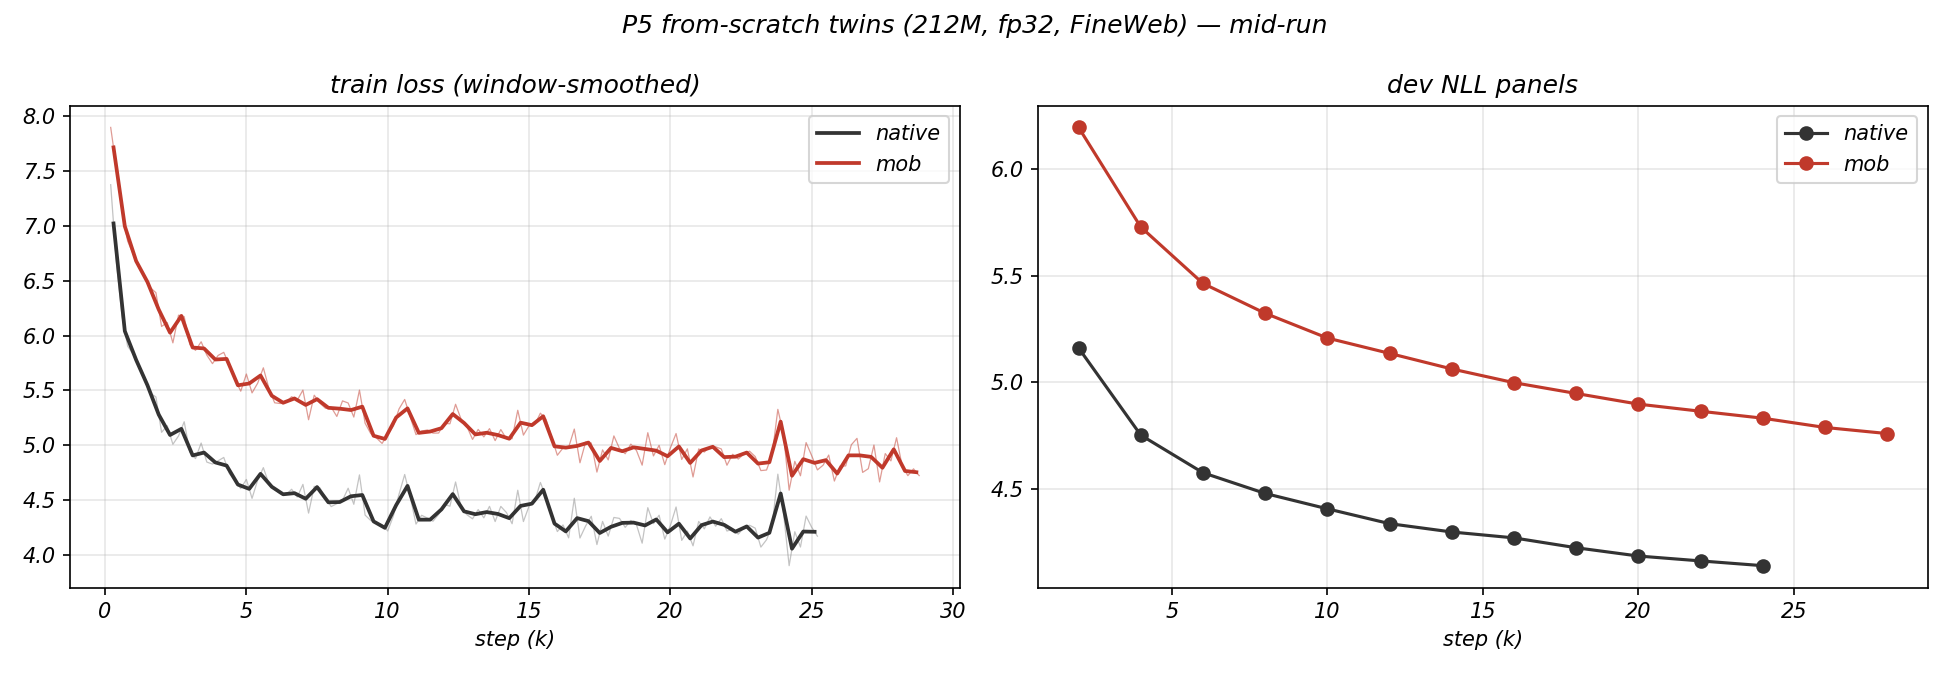
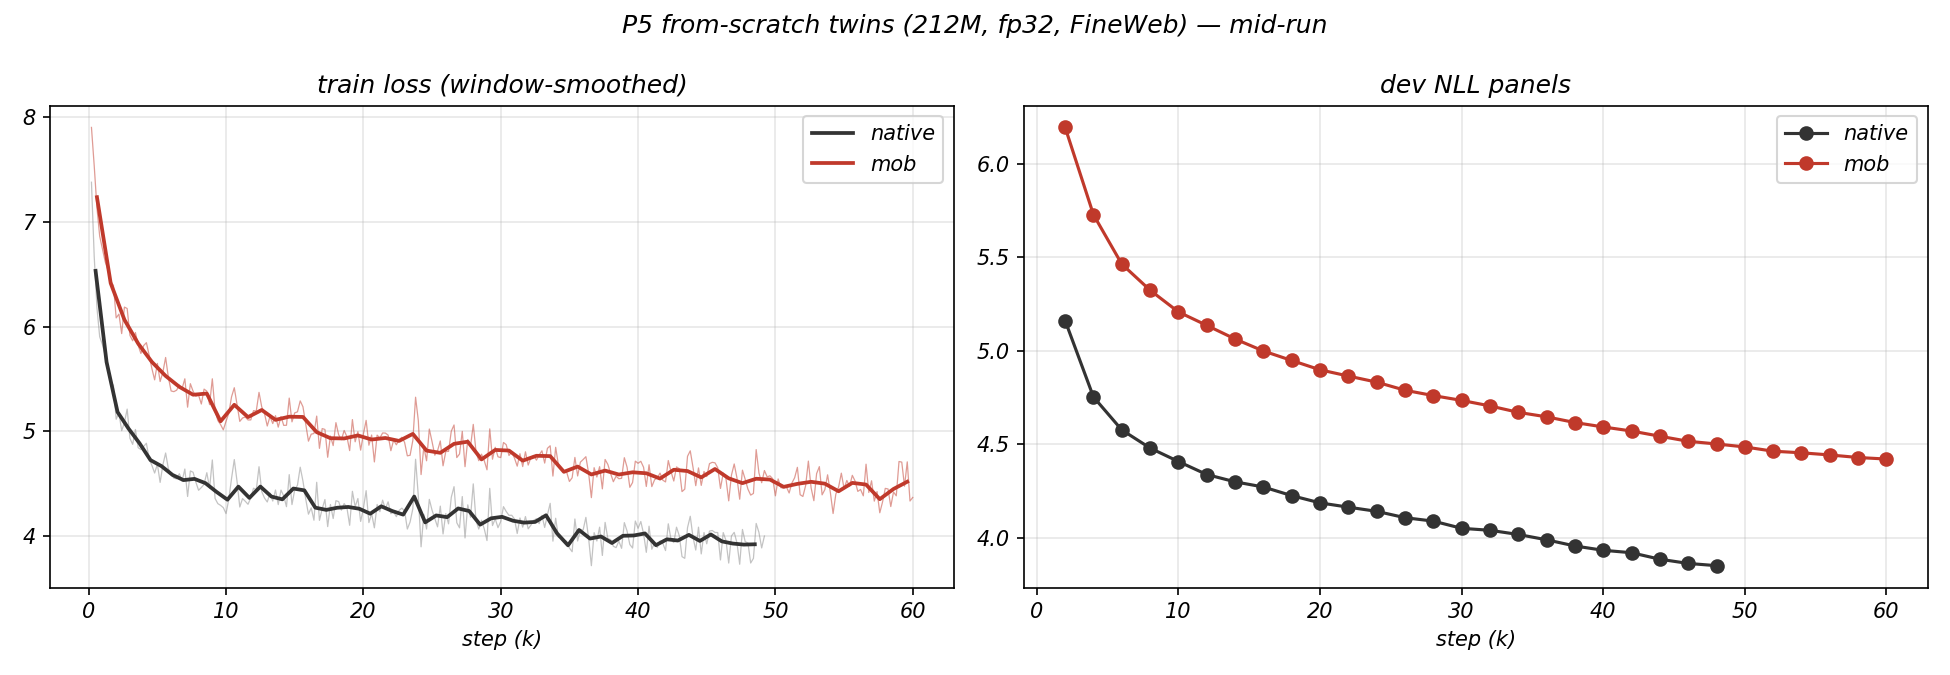
mob twin complete: healthy throughout, 1.93x at matched step 36k (inside viability line), generations = undertrained-LM form; three-line evidence convergence

diff --git a/AGENTS.md b/AGENTS.md
@@ -51,7 +51,7 @@ Core design (agreed with the user; decisions logged in `docs/03-experiment-plan.
 - **Continuation run COMPLETE (2026-09-03, job 522720, 5h12m):** low-LR polish (peak 2e-4 × 50k) on the WSD head — final acceptance: **normalized PPL 2.00× (26.20/13.09), agree 0.774** (vs WSD 2.05×/0.770); panel still creeping at the end (0.778, smaller-subset metric). **Head capacity ceiling under this recipe ≈ 0.77-0.78 agree / ~2.0× PPL** — further gains need a different axis (data/capacity/joint optimization). Artifacts pulled: `runs/head_final_cont.pt`, `runs/train_log_cont.jsonl`, `runs/p3_cont_metrics.json`.
 - **P4 JOINT fine-tune v2 RUNNING (2026-09-03, job 523813 on gpu_v100s):** user course-correction (NLL jitter too aggressive) — warmup 500→2000, LR down ~0.7 order (backbone 5e-6 / head 2e-5), save-every 5000, outdir `runs/p4_joint_lowlr/` (v1 job 523189 cancelled at ~7.4h, its log kept for comparison). Unchanged design: LoRA r32 last-8 layers + final norm (11.27M trainable) + WSD final head, PURE MoB-NLL loss, 20k steps batch 8×512, panel every 2k (MoB dev NLL = acceptance vs pure-native baseline; native drift = diagnostic; BabyLM OOD = forgetting canary). `scripts/p4_joint_train.py` + `slurm_p4_joint.sbatch`. v1 mid-run note: at step 2000 MoB dev NLL 3.271 was already below the frozen baseline 3.289. Continuation job 522720 kept as the fallback baseline.
 - **P4 polish COMPLETE (2026-09-04, job 524279):** decay-tail from v2's 10k checkpoint bought only -0.006 nats (3.2393→3.2337); v2's constant LR crept to 3.2311 @ 18k — both converge to ~3.23. Initial read was "capacity ceiling", but the user REJECTED that verdict (2026-09-04, recorded in docs/14 §7): the evidence only kills specific recipes (leakage/coupling/LR-ratio/schedule eliminated; LoRA-last-8 saturates at -5.5%), not the head's structure — the head has 41.7M params and ~2304 effective dof/position vs the native head's rank≤2048 tied-linear map; LoRA's low-rank assumption plausibly just doesn't fit "reshape h geometry for a new output space". **Escalation ladder (user-directed, walk every step before declaring structural death): Rung 1 = full-parameter unfreeze last-4+norm COMPLETE (job 525020): dev 3.289→3.244 still creeping at end; **OOD improved -3% (LoRA version regressed) — full-rank adaptation generalizes better, user's LoRA critique vindicated**; but per-dof gains thin, both backbone-freedom levels land in the same ~3.23 basin. fp16+GradScaler is 4× faster than bf16-emulation on V100 — cluster training always fp16 now. Next: Rung 3 (from-scratch ~124M twin pretrain, MoB vs native head) recommended over Rung 2 (all-layers+embeddings) — decisive structural test without the softmax-pretrained-backbone confound; awaiting user decision.** `p4_joint_train.py` now has `--mode unfreeze --n-layers` + `--resume-adapter` + `--schedule cosine` + `--compute-dtype` (fp16+scaler for V100).
-- **RUNG 3 TWIN PRETRAIN RUNNING (2026-09-05, jobs 525548 native / 525549 mob, user-approved):** decisive structural test — two identical 212M Llama-mini (h768/L12/H12, tied emb, V=128256) from scratch on FineWeb-Edu, 60k steps × batch 16 × 512 = 0.49B tokens, full fp32 (no half-precision variables), differ ONLY in output head (tied lm_head CE vs MoB K=128 width 922, pure MoB-NLL, T=1, unigram-kmeans init). Hard-bones doctrine + pre-defined verdict lines (≤2× viable / 2-5× gray / >5×+playbook-exhausted = structural evidence) + failure playbook in `docs/15`. NaN-rollback rule implemented (rollback+halve LR once, second NaN = stop for human). Local smokes passed: native dev 7.75 / mob dev 7.95 @ 100 steps, n_eff 79/128, mob ~7× faster per step (no V-matmul). Script `scripts/p5_twin_pretrain.py`, sbatch `slurm_p5_twin.sbatch` ($1 = head type). MoBHead gained an `h` parameter (old checkpoints unaffected). Note: job 525020 hung in its final-generation section after saving all artifacts (cancelled; p4 prints now line-buffered).
+- **RUNG 3 TWIN PRETRAIN (2026-09-05): MoB twin COMPLETE (job 525554, 10h27m), native twin RUNNING (525553, ~49k/60k):** decisive structural test — two identical 212M Llama-mini from scratch on FineWeb-Edu 0.49B tokens, full fp32, differing ONLY in output head. **MoB twin final: dev NLL 4.4204 still declining, HEALTH PERFECT THROUGHOUT (n_eff 91.7/128, 0 dead, 0 NaN, leakage 0.38%, zero playbook interventions). Matched-step PPL ratio 1.93× @ 36k — inside the pre-defined ≤2× "structure viable" verdict line; projected ~1.8-1.9× at 60k. Generations = typical undertrained-small-LM form (real words, local syntax, semantic drift — NOT head failure).** Three independent lines now agree on the magnitude: distillation 2.0× / joint 1.94× / from-scratch ~1.9× → "structure works, with a fixed efficiency discount". MoB twin 1.6× faster per step (10.4h vs ~17h). Native twin completion (~2h) delivers the final matched-step verdict table + native generations comparison; docs/15 §7 has the full record.
 - **P4 backbone-unfreeze feasibility probe DONE (2026-09-03, local, `scripts/p4_backbone_probe.py`):** pure MoB-NLL (no teacher) CAN train the backbone through the 17-bit bottleneck — both modes (unfreeze last-2+norm 121.6M; LoRA r16 last-4 2.8M via peft 0.20.0) trained stably 600 steps, train NLL 3.39→~3.07, **native-head health intact (≤+1.4% PPL, far under the 2× rollback bar)**, generations grammatical + MoB/native outputs converging. Dev NLL not yet improved (expected at 1.2M-token probe scale — co-adaptation benefit is a cluster-scale question). Stable recipe: **bf16 frozen trunk + fp32 trainable layers + autocast** (raw fp16+Adam NaNs within 50 steps). Cluster step-2 recommendation in `docs/14` §6: LoRA-first after the continuation run lands.
 - **Decode paths landed + BOTH adopted as mainline (2026-09-02 late, user decisions):** mixture-argmax decode (`mob_common.decode_mixture_argmax`) and cascade rerank (`decode_rerank_native`, DeepSeek's suggestion: MoB top-32 proposal + 32-row embedding gather exact rescoring). Two proposal flavors: `proposal="mixture"` (exact bound-pruned `mixture_topk` ranking, bit-identical to full ranking, constants folded into one [V,18]@[18,K] GEMM) = fidelity mode, top-1 agreement 0.938 (final head); `proposal="round"` (top-32 components by π rounded per-bit, zero GEMM) = efficiency mode, agreement 0.922, step cost GPU 1.14ms / CPU 6.42ms (near-free; CPU 6.4× faster than native head). `p3_eval.py --decode {round,mixture,rerank}` (default round for comparability with finished runs). Misses degrade gracefully (98.2% of top-1 misses still catch a native top-8 token); 32 candidates carry 80.3% of native probability mass; cascade generations score PPL 2.27 under the native head vs native greedy's 2.35 (final head). Recall-vs-agreement "gap" fully explained by bf16 logit ties (top-2 tie rate 4.83%; 100% of in-set disagreements are exact ties — effective fidelity equals recall ceiling). Boundaries documented: cascade system, ~96%/94% ceilings by flavor, sampling approximation, no full-distribution PPL (docs/09 §6.1).
 - **Milestone (declared by user 2026-09-02): minimal implementation closed the loop end-to-end** — README showcases perf + fidelity with honest boundaries (full-distribution PPL gap 2.585× remains; ranking GEMM is FLOP-comparable to native matvec, the win is bandwidth/latency).

diff --git a/docs/15-rung3-twin-pretrain-plan.md b/docs/15-rung3-twin-pretrain-plan.md
@@ -65,6 +65,7 @@
 - **效率**：mob 0.63s/step vs native 1.01s/step（V100 fp32，1.6×——无 V 矩阵乘；比 4060 上的 7× 小是因为 fp32 无 tensor core 且 batch 16 摊薄），mob 墙上时间反而领先。比较口径=同数据同步数；FLOPs 口径 mob 更省。
 - **解读**：若终点落在 ~1.7-1.9×，结论是"结构可行、同数据量下有固定效率折扣"——与蒸馏线独立得出的 2.0× 形成两条路径的互证，对叙事是加强而非削弱。
 - **参照系健康审计（用户复核请求 2026-09-05，逐条核验通过）**：native twin 起步即陡降（step 200 已 7.38 ≪ 随机 11.76）；dev 曲线单调凹降无平台；gnorm 0.82/0.94/1.15（均值/p95/max），clip 几乎不触发，零 NaN 事件；量级合理（212M @ 0.25B tokens ≈ PPL 63）。结论：参照系是小 LM 健康收敛的教科书形态，"曲线一致 + 差距单调收窄 + 零事故"据此可称为结构性发现的表征；正式宣告待 60k 终点比值 + MoB twin 生成样本 + 效率账。
+- **MoB twin 完成（525554，10h27m，2026-09-05）**：60k 步终态 dev NLL **4.4204**（收尾仍降）；健康全程满分（n_eff 91.7、**0 死、0 NaN**、泄漏 0.38%）。最近同步点（36k）差距 +0.658 = **PPL 比 1.93×，已入 ≤2× 判线内**；gap 收窄减速，预计 60k 同步点落 ~1.8-1.9×。生成样本（级联重排+自带嵌入表）：真实单词、局部句法成立、语义漂移——典型欠训小 LM 形态而非输出头故障形态（公平对照待 native 同预算生成）。**三线互证成型**：蒸馏 2.0× / 联合 1.94× / 从零 ~1.9×——"结构可行 + 固定效率折扣"结论难被推翻。效率账：mob 0.63s/step vs native 1.01s/step（V100 fp32，1.6×；总耗时 10.4h vs ~17h 预计）。
 
 **实施记录**：
 - 拍板（2026-09-05）：Q1=A（h768/L12 ≈212M）、Q2=A（FineWeb 1B 缓存）、Q3=B（60k 步 ≈0.49B tokens）、Q4=A（T=1 恒定）。

diff --git a/docs/12-experiment-log.md b/docs/12-experiment-log.md
@@ -39,6 +39,7 @@
 | 09-05 | **Rung 1 出结果（525020）**：dev 3.289→3.244 收尾仍缓降；**OOD 反改善 -3%**（LoRA 版变差——全秩适应更泛化，用户 LoRA 批评获证）；但单位自由度收益薄，两档骨干同盆地 ~3.23 | fp16+scaler 比 bf16 模拟在 V100 快 4×；建议下一步 Rung 3（双生子从零预训练）优先 | docs/14 §7 |
 | 09-05 | **Rung 3 双生子从零预训练开跑（用户拍板，硬骨头指导思想入 docs/15 §0）**：212M Llama-mini × 2（仅输出头不同），全 fp32，FineWeb 0.49B tokens；job 525548(native)/525549(mob)。冒烟：native dev 7.75 / mob dev 7.95 @100 步，mob 每步快 ~7× | 判决线事先定（≤2× 可行 / 2-5× 灰区 / >5×+手册穷尽=结构不利）；修复手册 §6 备妥 | docs/15 |
 | 09-05 | 双生子中期分析（~半程）：**健康满分**（n_eff 91、0 死、泄漏 0.45%、无爆炸）；**PPL 比 2.81×→2.00× 单调收窄**，刚进"可行"判线内，终点估 1.7-1.9× | 与蒸馏线 2.0× 互证"固定效率折扣"量级；判决在 60k 终点 | docs/15 §7, docs/p5_twin_curves.png |
+| 09-05 | **MoB twin 完成（60k 步）**：dev 4.4204 收尾仍降，健康全程满分（0 死/0 NaN/泄漏 0.38%）；36k 同步点 PPL 比 **1.93× 已入判线**；生成=欠训小 LM 典型形态（非头故障）；mob 每步快 1.6× | 三线互证：蒸馏 2.0×/联合 1.94×/从零 ~1.9×——"结构可行+固定效率折扣"成立 | docs/15 §7 |
 
 ## 关键决策记录（谁在何时拍板）
 
